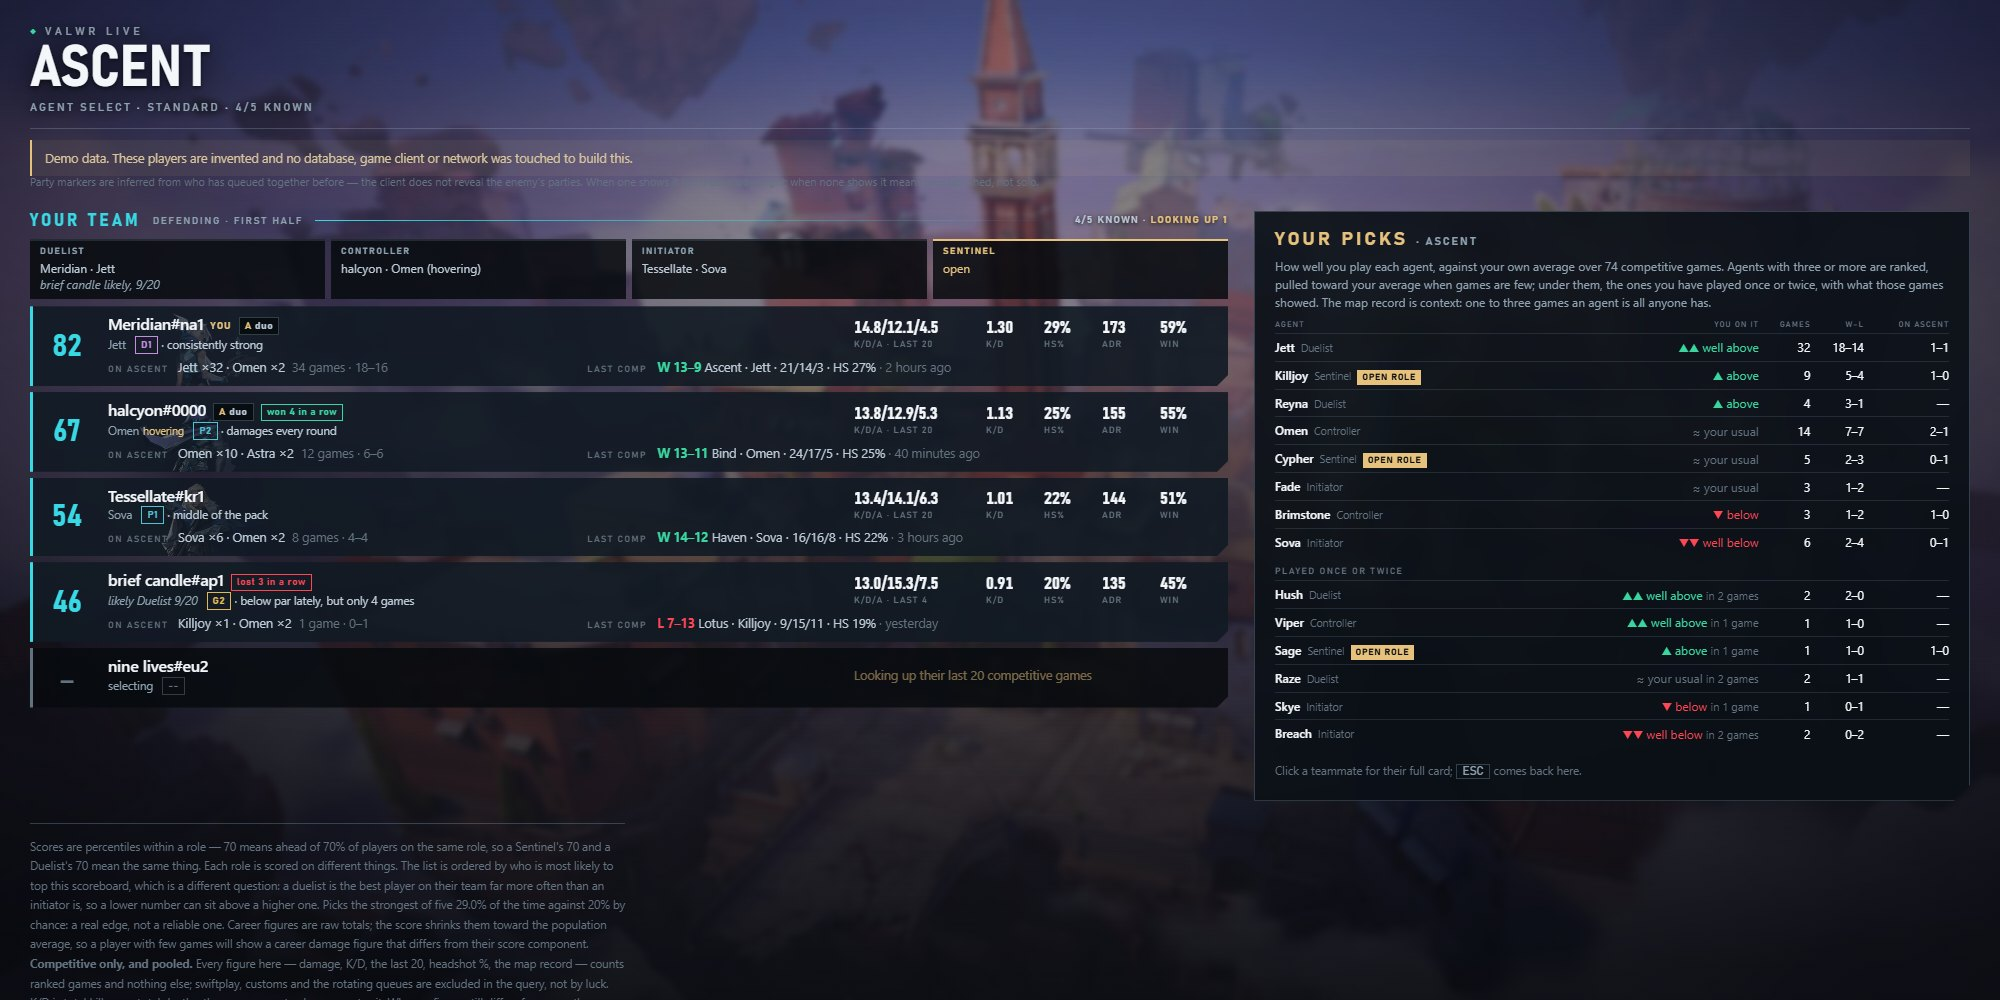
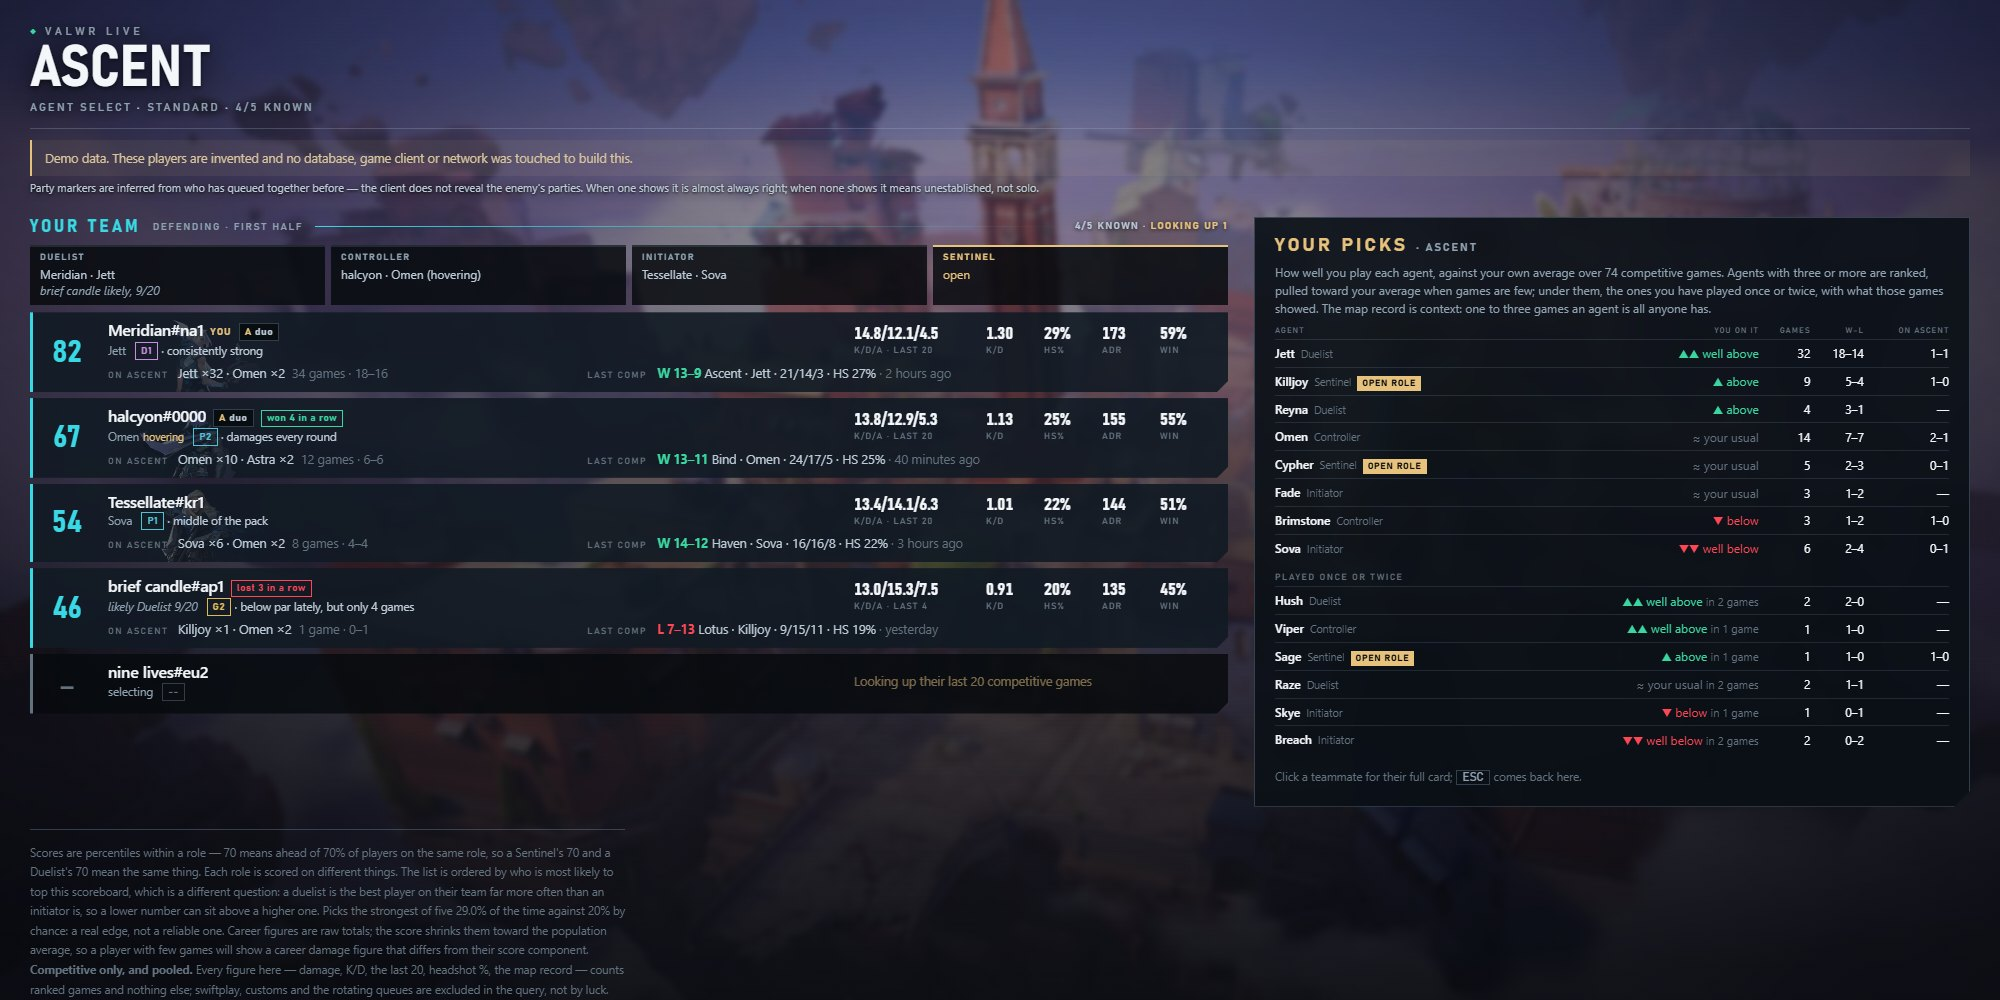
Name your team's best player when an opponent topped the lobby
The finished-match card looked for the lobby's #1 and only accepted them
if they were on your team, so "best was" came out blank whenever an
opponent played best. It now takes the best finisher on your team; all 34
recorded missed picks name a teammate. Also lifts the party note off
bright map art with a text shadow, and lets reasons wrap to two lines in
the side-by-side layout instead of being cut off. README images
recaptured at 2000px with the fixes.

Changed region(s): [[0.0, 0.186, 0.992, 0.806], [0.0, 0.837, 0.31, 1.0], [0.806, 0.589, 0.93, 0.744]]

diff --git a/valwr/dash/static/index.html b/valwr/dash/static/index.html
@@ -106,6 +106,11 @@ body .top{border-bottom-color:rgba(160,195,220,.26)}
   .rosters .score{font-size:27px;padding-left:10px}
   .rosters .st b{font-size:15.5px}
   .rosters .st span{letter-spacing:.1em}
+  /* Half a roster leaves the line under the name about 260px: the agent, a
+     run badge and a rank tag can spend most of it, and "damages every round"
+     came out as "damages every r…". Two lines fit in the 66px row. */
+  .rosters .rs{white-space:normal;display:-webkit-box;-webkit-box-orient:vertical;
+    -webkit-line-clamp:2;line-clamp:2}
 }
 
 *{box-sizing:border-box}
@@ -262,7 +267,11 @@ body{
   background:var(--sunk);border:1px solid var(--line);color:var(--bone-dim);
   vertical-align:1px}
 .party b{color:var(--gold);font-weight:700}
-.partynote{color:var(--ghost);font-size:11px;margin:-2px 0 8px}
+/* It sits straight on the map art, with no panel behind it. In --ghost and no
+   shadow it vanished wherever the art was bright -- the tower on Ascent, the
+   sky on Bind -- and read as text drawn over other text. */
+.partynote{color:var(--bone-dim);font-size:11px;margin:4px 0 8px;
+  text-shadow:0 1px 3px rgba(0,0,0,.95),0 0 12px rgba(0,0,0,.8)}
 
 /* The result strip, and the table under it: what was predicted against what
    happened. Only a settled match has either. */
@@ -1093,7 +1102,8 @@ function resultHTML(rv){
         right ? "called it" : "wrong"}</b></span>
     ${pick.hit === null || pick.hit === undefined ? "" : `<span class="tp">top
       pick ${pick.hit ? "correct" : "missed"}: ${esc(pick.picked || "—")}${
-        pick.hit ? "" : ` — best was ${esc(pick.actually_best || "—")}`}</span>`}
+        pick.hit || !pick.actually_best ? ""
+          : ` — best was ${esc(pick.actually_best)}`}</span>`}
   </div>`;
 }
 

diff --git a/test/test_outcomes.py b/test/test_outcomes.py
@@ -662,6 +662,19 @@ def test_the_games_own_score_decides_who_played_best(conn):
     assert outcomes.actual_best(conn, "m1", "Blue") == "b1"
 
 
+def test_your_teams_best_is_named_when_an_opponent_topped_the_lobby(conn):
+    """The page printed "best was —" whenever the lobby's #1 was on the other
+    team: it looked for actual_rank 1 on your side and found nobody."""
+    outcomes.record(conn, state(scores=(90, 70, 50, 30, 10)), now=1000)
+    outcomes.settle(conn, FakeAPI(finished(best="b3")), "na", "m1", now=2000)
+    everyone = _everyone(conn)
+    enemy = next(p for p in everyone if not p.startswith("b"))
+    _performance(conn, {p: (500.0 if p == enemy else 400.0 if p == "b2"
+                            else 200.0) for p in everyone})
+    got = review.compare(conn, "m1")
+    assert got["top_pick"]["actually_best"] == "b2#NA1"
+
+
 def test_a_partial_set_of_scores_is_never_mixed_with_match_impact(conn):
     """Half a lobby on one measure and half on another is not a ranking."""
     outcomes.record(conn, state(), now=1000)

diff --git a/valwr/live/review.py b/valwr/live/review.py
@@ -268,8 +268,13 @@ def compare(conn: sqlite3.Connection, match_id: str) -> dict | None:
     their_rounds = row["rounds_red"] if own_team == "Blue" else row["rounds_blue"]
     picked = next((p for p in players
                    if p["puuid"] == _top_pick_id(state, own_team)), None)
-    best = next((p for p in players if p["actual_rank"] == 1
-                 and p["team"] == own_team), None)
+    # Your team's best, which is what the top pick is judged against -- not
+    # the lobby's #1. Asking for actual_rank == 1 on your team found nobody
+    # whenever the lobby's best player was an opponent, and the page printed
+    # "best was —" beside a miss it had in fact measured.
+    finished = [p for p in players
+                if p["team"] == own_team and p["actual_rank"]]
+    best = min(finished, key=lambda p: p["actual_rank"]) if finished else None
     out["actual"] = {
         "winner": row["winner"], "own_won": row["own_won"],
         "rounds_blue": row["rounds_blue"], "rounds_red": row["rounds_red"],
